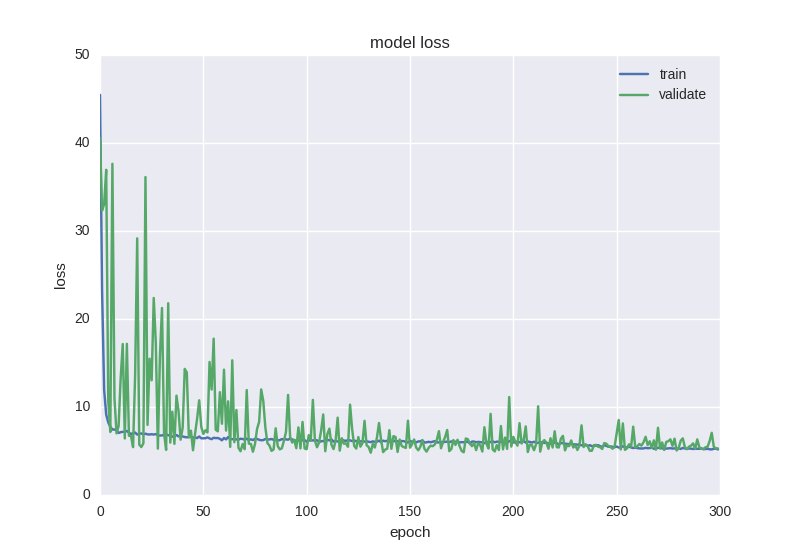
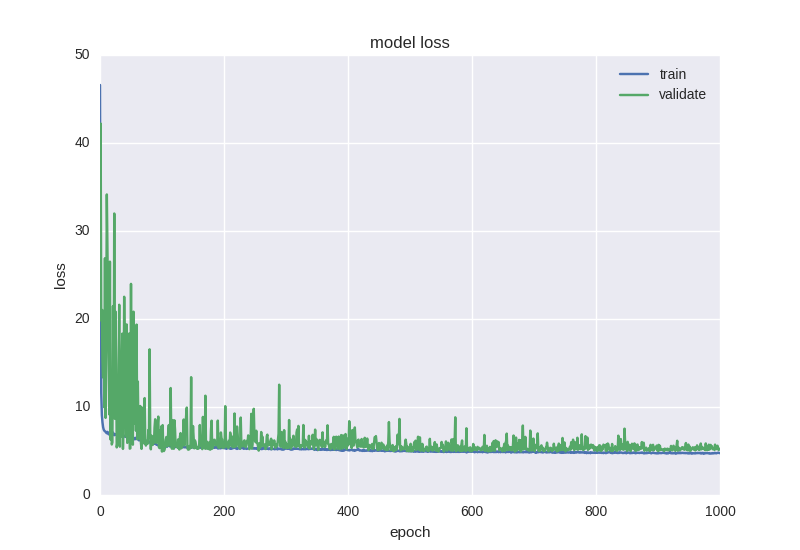
real sync

diff --git a/mercedes/nn.py b/mercedes/nn.py
@@ -19,6 +19,16 @@ def the_metric(y_pred, y):
 
 train = pd.read_csv('data/train.csv')
 test = pd.read_csv('data/test.csv')
+####################3 Remove the columns whis has only 0 #####################
+singularity_train = map(lambda x: {x: len(set(train[x]))},train.keys())
+keys_with_single_train = filter(lambda x: list(x.values())[0]==1, list(singularity_train))
+keys_with_single_train = map(lambda x: x.keys()[0], keys_with_single_train)
+for i in keys_with_single_train:
+    del train[i]
+    del test[i]
+#del train['X4'], train['X5'], test['X4'], test['X5']
+####################3 Remove the columns whis has only 0 #####################
+
 d_t = map(lambda x: {x:type(train[x][0])}, train)
 d_t_str = filter(lambda x: x.values()[0]==str, d_t)
 
@@ -57,7 +67,7 @@ p_traini_all = np.concatenate((p_train,train[d_t_str_keys]), axis=1)
 p_test = pca.fit_transform(test_int_data)
 p_test_all = np.concatenate((p_test,test[d_t_str_keys]), axis=1)
 
-train_size = int(0.9*len(p_train))
+train_size = int(0.90*len(p_train))
 dtrain = p_train[:train_size]
 label_train=y_train[:train_size]
 deval = p_train[train_size:]
@@ -72,7 +82,7 @@ t_test = np.array(test)
 model = ma.fcnn(t_train.shape[1])
 checkpoint = ModelCheckpoint('weights/best.weights', monitor='val_loss', save_best_only=True, verbose=2)
 
-history = model.fit(t_train[:train_size], label_train, validation_data=(t_train[train_size:], label_val), nb_epoch=300, batch_size=8, verbose=1, callbacks=[checkpoint])
+history = model.fit(t_train[:train_size], label_train, validation_data=(t_train[train_size:], label_val), nb_epoch=1000, batch_size=8, verbose=1, callbacks=[checkpoint])
 
 model = ma.fcnn(t_train.shape[1])
 model.load_weights('weights/best.weights')

diff --git a/mercedes/features_analysis.py b/mercedes/features_analysis.py
@@ -1,0 +1,17 @@
+import pandas as pd
+from collections import Counter
+train_df = pd.read_csv('data/train.csv')
+test_df = pd.read_csv('data/test.csv')
+#data_types = map(lambda x: {x: type(train_df[x][0])},train_df.keys())
+#print (list(data_types))
+singularity_train = map(lambda x: {x: len(set(train_df[x]))},train_df.keys())
+singularity_test = map(lambda x: {x: len(set(test_df[x]))},test_df.keys())
+#print (list(singularity_train))
+keys_with_single_train = filter(lambda x: list(x.values())[0]==1, list(singularity_train))
+keys_with_single_test = filter(lambda x: list(x.values())[0]==1, list(singularity_test))
+print ('these Keys should be ignored:- ',list(keys_with_single_train), list(keys_with_single_test))
+y_counter = Counter(train_df['y'])
+sorted_y_counter = sorted(y_counter, key=y_counter.get, reverse=True)
+print (sorted_y_counter[:10], y_counter[sorted_y_counter[0]])
+
+
